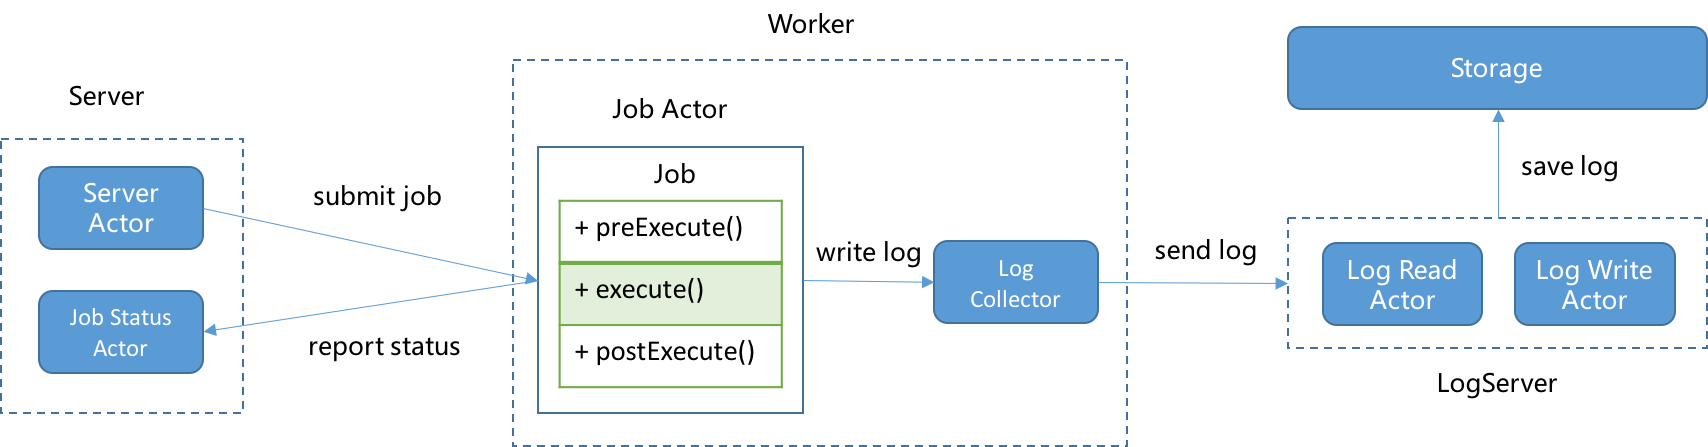
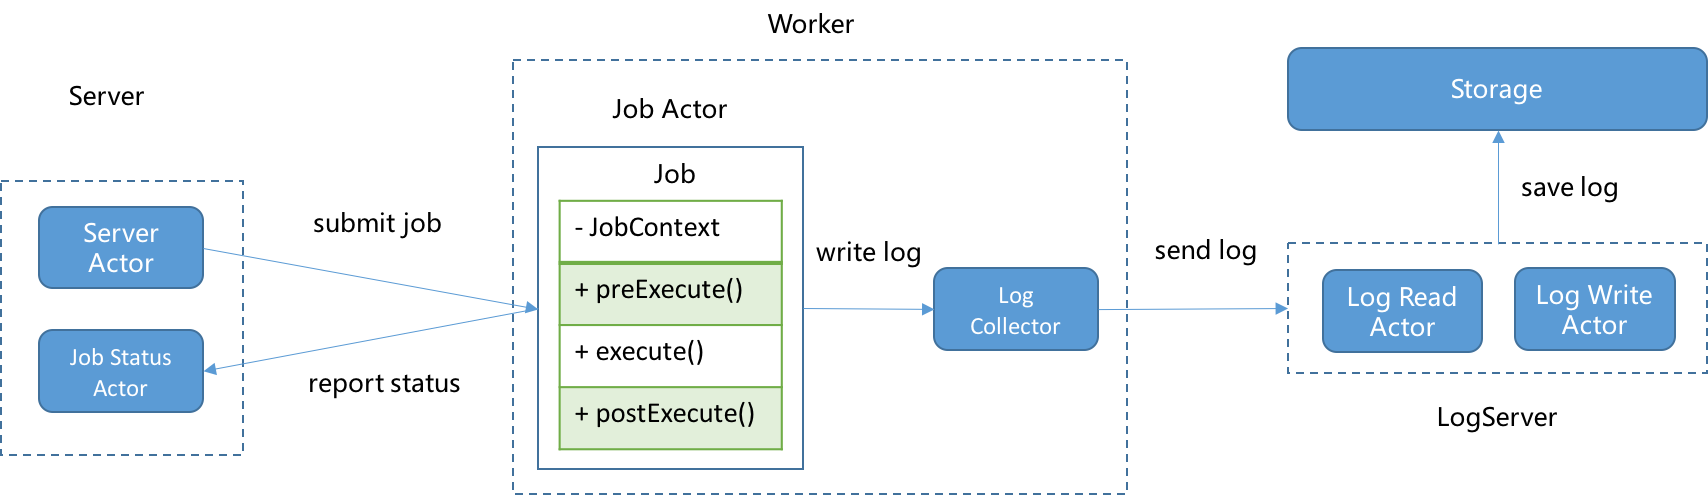
update job executor description

diff --git a/docs/design/jarvis2_design.md b/docs/design/jarvis2_design.md
@@ -229,7 +229,8 @@ Hive任务：YarnStrategy
 
 ![Executor交互流程](http://gitlab.mogujie.org/bigdata/jarvis2/raw/master/docs/design/img/job_executor.png)
 
-
+Job是一个抽象类，包括preExecute()、execute()、postExecute()3个抽象方法，根据各自需求实现这些方法以此来支持不同类型的任务，其中JobContext包含了任务运行参数，如：ID、名称、类型以及其它扩展参数等。
+Server将任务提交至Worker，然后Worker分别先后执行preExecute()、execute()、postExecute()方法，并且Worker在执行前后会向Server汇报任务状态，任务运行过程中生成的日志由LogCollector发送给LogServer，最终由LogServer保存至存储系统中(可以是HDFS、HBase等)。
 
 ### 2.5 涉及技术
 
